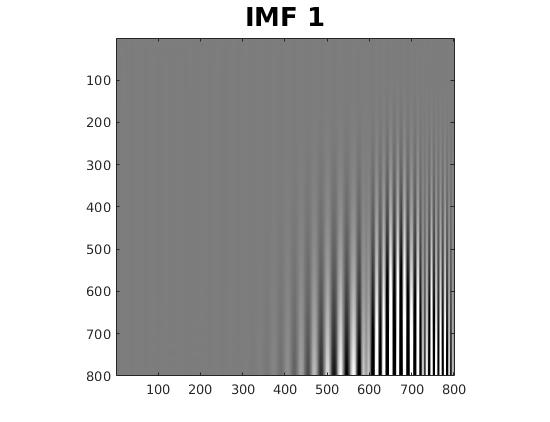
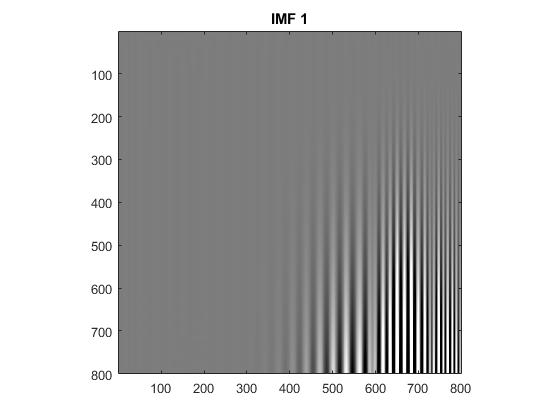
spectrum

diff --git a/2d_pde/diffusion_2d_demo.m b/2d_pde/diffusion_2d_demo.m
@@ -2,7 +2,7 @@
 %Specifying parameters
 nx=40;                           %Number of steps in space(x)
 ny=50;                           %Number of steps in space(y)       
-nt=3000;                           %Number of time steps 
+nt=30;                           %Number of time steps 
 dt=0.01;                         %Width of each time step
 dx=2/(nx-1);                     %Width of space step(x)
 dy=2/(ny-1);                     %Width of space step(y)
@@ -46,10 +46,10 @@ bc=vis*dt*bc;
 
 %Calculating the coefficient matrix for the implicit scheme
 Ex=sparse(2:nx-2,1:nx-3,1,nx-2,nx-2);
-% Ax=Ex+Ex'-2*speye(nx-2);        %Dirichlet B.Cs
+Ax=Ex+Ex'-2*speye(nx-2);        %Dirichlet B.Cs
 Ax(1,1)=-1; Ax(nx-2,nx-2)=-1;  %Neumann B.Cs
 Ey=sparse(2:ny-2,1:ny-3,1,ny-2,ny-2);
-% Ay=Ey+Ey'-2*speye(ny-2);        %Dirichlet B.Cs
+Ay=Ey+Ey'-2*speye(ny-2);        %Dirichlet B.Cs
 Ay(1,1)=-1; Ay(ny-2,ny-2)=-1;  %Neumann B.Cs
 A=kron(Ay/dy^2,speye(nx-2))+kron(speye(ny-2),Ax/dx^2);
 D=speye((nx-2)*(ny-2))-vis*dt*A;

diff --git a/2d_conv/plot_EMD_fs.m b/2d_conv/plot_EMD_fs.m
@@ -3,12 +3,12 @@ IMF_num = size(IMFs,3)
 % Window
 w = hamming(size(signal, 1));
 signal = double(signal);
-log_scale = 0;
+log_scale = 1;
 figure;
 subplot(121)
 image(signal);
 % mesh(signal);
-axis square;
+% axis square;
 colormap(gray(256));
 subplot(122)
 F = fft2(signal.*(w*w'));
@@ -17,8 +17,8 @@ if log_scale
 else
     imagesc(abs(fftshift(F)));
 end
-axis square;
-% suptitle('Signal');
+% axis square;
+suptitle('Signal');
 
 for i = 1:IMF_num
     figure();
@@ -35,7 +35,7 @@ for i = 1:IMF_num
         imagesc(abs(fftshift(F)));
     end
 %     axis square;
-%     suptitle(sprintf('Convolution-generated IMF %d', i))
+    suptitle(sprintf('IMF %d', i))
 
 end
 
@@ -54,6 +54,6 @@ else
 end
 % axis square;
 
-% suptitle('Convolution-generated Residual')
+suptitle('Residual')
 
 end 
